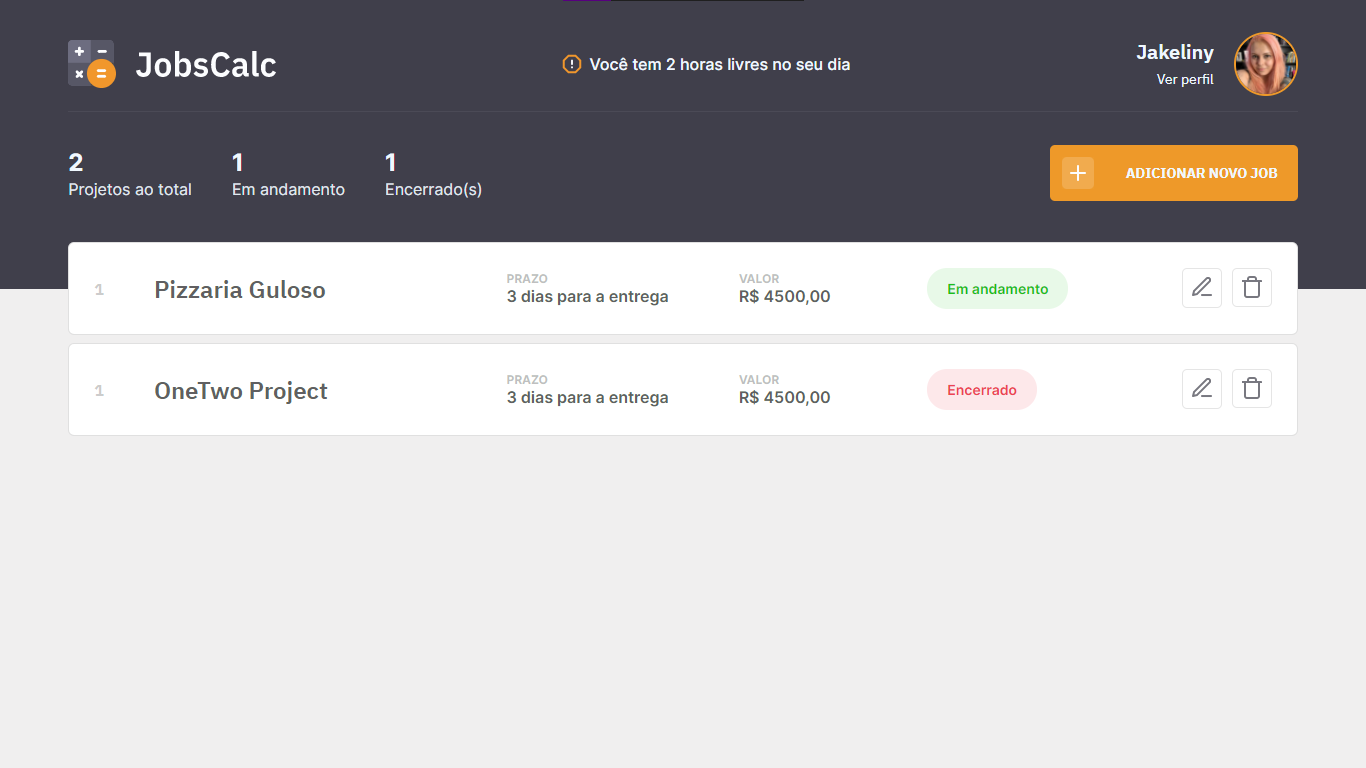
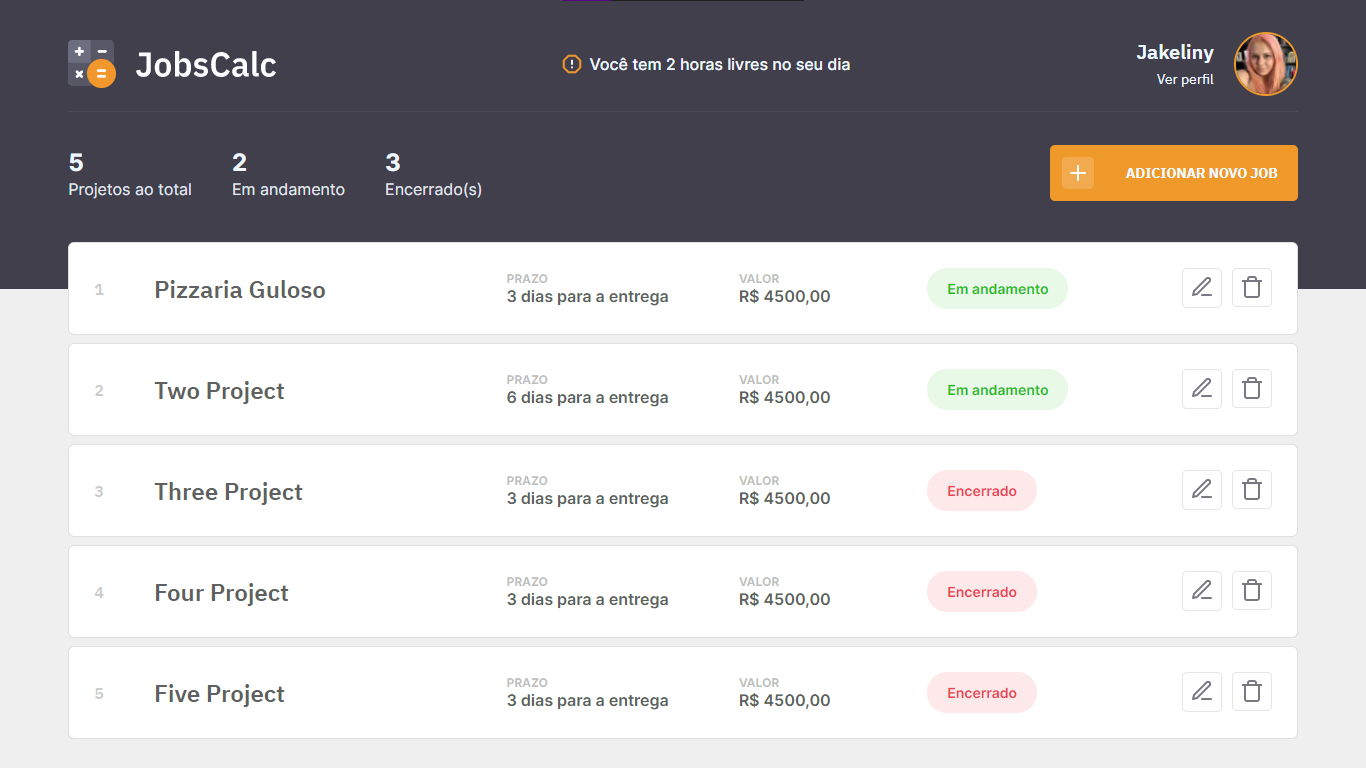
more projects added

diff --git a/index.html b/index.html
@@ -34,7 +34,7 @@
       <ul>
         <li>
           <div class="total">
-            <span class="amount">3</span>
+            <span class="amount">5</span>
             <p class="projectType">Projetos ao total</p>
           </div>
         </li>
@@ -46,7 +46,7 @@
         </li>
         <li>
           <div class="fineshed">
-            <span class="amount">1</span>
+            <span class="amount">3</span>
             <p class="projectType">Encerrado(s)</p>
           </div>
         </li>
@@ -89,7 +89,7 @@
       <div class="project">
         <div class="about">
           <span class="number">2</span>
-          <p class="projectName">OneTwo Project</p>
+          <p class="projectName">Two Project</p>
           </div>
         
         <div class="projectDetails">
@@ -119,7 +119,67 @@
       <div class="project">
         <div class="about">
           <span class="number">3</span>
-          <p class="projectName">OneTwoThree Project</p>
+          <p class="projectName">Three Project</p>
+          </div>
+        
+        <div class="projectDetails">
+          
+          <div>
+            <div class="deadline">
+              <span>Prazo</span>
+              <p>3 dias para a entrega</p>
+            </div>
+            <div class="price">
+              <span>valor</span>
+              <p>R$ 4500,00</p>
+            </div>
+          </div>
+          
+          <div class="situation">
+            <span class="fineshed">Encerrado</span>
+            <div class="options">
+              <button class="editProject" title="Editar Job" > <img src="./images/edit-24.svg" alt="Edit icon"> </button>
+              <button class="deleteProject" title="Deletar Job"> <img src="./images/trash-24.svg" alt="Delete icon"> </button>
+            </div>
+          </div>
+        
+        </div>
+      </div>
+      
+      <div class="project">
+        <div class="about">
+          <span class="number">4</span>
+          <p class="projectName">Four Project</p>
+          </div>
+        
+        <div class="projectDetails">
+          
+          <div>
+            <div class="deadline">
+              <span>Prazo</span>
+              <p>3 dias para a entrega</p>
+            </div>
+            <div class="price">
+              <span>valor</span>
+              <p>R$ 4500,00</p>
+            </div>
+          </div>
+          
+          <div class="situation">
+            <span class="fineshed">Encerrado</span>
+            <div class="options">
+              <button class="editProject" title="Editar Job" > <img src="./images/edit-24.svg" alt="Edit icon"> </button>
+              <button class="deleteProject" title="Deletar Job"> <img src="./images/trash-24.svg" alt="Delete icon"> </button>
+            </div>
+          </div>
+        
+        </div>
+      </div>
+      
+      <div class="project">
+        <div class="about">
+          <span class="number">5</span>
+          <p class="projectName">Five Project</p>
           </div>
         
         <div class="projectDetails">

diff --git a/README.md b/README.md
@@ -5,10 +5,23 @@
 - Vi a necessidade de aprender o modelo de display Grid. Usando o modelo flexbox, tive mais dificuldade para deixar o layout responsivo
 - Pensar, desde o começo, em como organizar os elementos HTML para facilitar na hora de tornar a aplicação responsiva
 - Naturalidade para definir os espaçamentos entre conteúdos externos e o internos, com `margin`, `paddind` e valores em `%` para o `width`
+- Determinar a altura dos elementos partindo do elemento mais interno
 
 ## Principal Dificuldade
 - Deixar o layout responsivo
 
 ## Demonstração
+<p align="center">
+  <img align="center" src="images/demo.png">
+</p>
 
-<img align="center" src="images/demo.png">
+
+## Tablet
+<p align="center">
+<img align="center" src="images/demo-tablet.png">
+</p>
+
+## Mobile
+<p align="center">
+<img align="center" src="images/demo-mobile.gif">
+</p>
